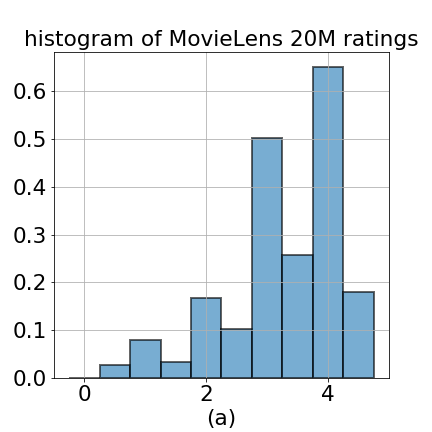
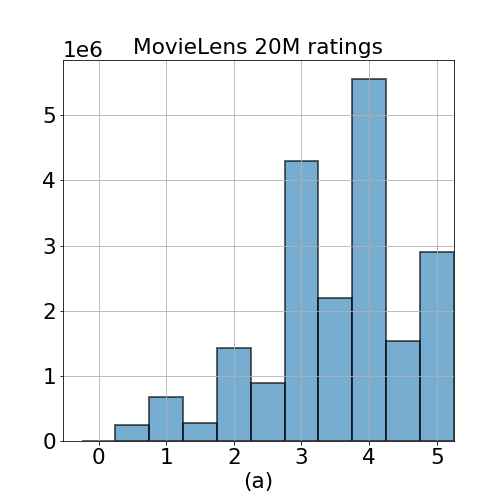
end of day

diff --git a/content/posts/Collaborative-Filtering-tensorflow.md b/content/posts/Collaborative-Filtering-tensorflow.md
@@ -1,7 +1,7 @@
 ---
 date: 2017-11-18T15:49:35-08:00
 draft: false
-title: "Collaborative Filtering with tensorflow"
+title: "A Collaborative Filtering Model on tensorflow with Nonlinear Cross Features"
 markup: "markdown"
 author: "Safak Ozkan"
 ---
@@ -16,7 +16,7 @@ We are given a rating matrix $R$ where only a small fraction of the entries $R_{
 By the nature of the problem, $R$ is a sparse matrix, where the sparsity comes not from zero entries but from empty records. Therefor, we represent the training data in 3 columns: $i$: user ID , $j$: movie ID and $R_{ij}$: the rating (see Table 1).    
    
 
-<font size="+1"><strong><p align="center">Table 1. Ratings data in sparse format</p></strong></font>
+<font size="+1"><strong><p align="center">Table 1. Ratings data ml-20m sparse format</p></strong></font>
 
 
 | $i$: user ID | $j$: movie ID   | $R_{ij}$: the rating |
@@ -44,8 +44,8 @@ The Collaborative Filtering Model can also be described as reconstructing a **lo
 
 **Eckart-Young Theorem** states that if $R_k$ is the best rank-$k$ approximation of $R$, then it's necessary that:  
  
-&nbsp;&nbsp;&nbsp;&nbsp;&nbsp;&nbsp;&nbsp;&nbsp;&nbsp;&nbsp;   1. $R_k$ minimizes the Frobenius norm $||R-R_k||_F^2$, and   
-&nbsp;&nbsp;&nbsp;&nbsp;&nbsp;&nbsp;&nbsp;&nbsp;&nbsp;&nbsp;   2. $R_k$ can be constructed by retaining only the largest $k$ singular values in the SVD formulation $R_k=U \cdot \Sigma\_k \cdot V^T$.
+&emsp;&emsp;&emsp;   1. $R_k$ minimizes the Frobenius norm $||R-R_k||_F^2$ and   
+&emsp;&emsp;&emsp;   2. $R_k$ can be constructed by retaining only the largest $k$ singular values in $\Sigma\_k$ of the SVD formulation.
 
 We can further absorb the diagonal matrix $\Sigma\_k$ into $U$ and $V$ and express the factorization as a simple dot product between the feature matrices for users and movies.
  
@@ -63,7 +63,7 @@ $V$: movies feature matrix
 
 Hence, we formulate the problem as an **optimization problem** and search for $U$ and $V$ by minimizing the following loss function $L$.    
 
-<p align="center">$argmin_{\ U,V}\ L = ||R - U \cdot V^T||_F^2$.</p>
+$$argmin_{\ U,V}\ L = ||R - U \cdot V^T||_F^2$$
 
 > *An important point to make is that the Frobenius norm is computed only as a partial summation over the entries in $R$ where a rating is provided.*
 
@@ -108,16 +108,15 @@ The hyperparameter $k$ is to be chosen carefully by cross-validation. A small $k
 	<div style="clear:both"></div>
 </div>
 <br>
-<font size="+1"><b><p align="center">Figure 2. Histogram of (*a*) all ratings (*b*) user mean ratings \(*c*) movie mean ratings, and (*d*) 
+<font size="+1"><b><p align="center">Figure 2. Histogram of (*a*) all ratings in ml-20m data (*b*) mean of ratings per user \(*c*) mean of ratings per movie, and (*d*) 
 	number of ratings provided by users. Minimum number of ratings provided by a user is 20, and maximum is 9254 ratings.
-</p></b></font>  
+</p></b></font>
 
 
 ---   
 
 ## 4. Challenges in Developing the Model on `tensorflow`
-- A particular challenge in implementing a Matrix Factorization algorithm on `tensorflow` is that we can't naively pass `None` for the `shape` argument while declaring the input data tensors `R` and `R_indices` as in `R = tf.placeholder(..., shape=(None))`. Since every rating `R[i,j]` is a function of only $2*k$ tunable variables. The `shape` parameter corresponds to how many ratings will make up a single batch in the SGD routine. To make the SGD work, I had to fix the `shape` of the `tf.placeholder` `R` and `R_indices`  to `shape=(BATCH_SIZE, k)` instead of `shape=(None, k)`. This a small price to pay that allows me to use GPU computation and also backprop with symbolic differentiation, which gave me the flexibility to experiment in trying additional non-linear terms in the loss function without having the worry about the partial differentials with respect to the tunable variables.  
-
+- A particular challenge in implementing a Matrix Factorization algorithm on `tensorflow` is that we can't naively pass `None` for the `shape` argument while declaring the input data tensors `R` and `R_indices` as in `R = tf.placeholder(..., shape=(None))`.  The `shape` parameter corresponds to the number of ratings a single batch in the SGD step contains. To make the SGD work, I had to fix the `shape` of the `tf.placeholder` variables `R` and `R_indices`  to `shape=(BATCH_SIZE, k)` instead of `shape=(None, k)`.  This is a small price to pay that allows me to use `tensorflow` which provides me GPU computation and also backprop with symbolic differentiation. This gave me the flexibility to experiment with additional nonlinear terms in loss function without having the worry about the partial differentials with respect to the tunable variables. 
 ```python
 R = tf.placeholder(dtype=tf.float32, shape=(BATCH_SIZE,))
 R_indices = tf.placeholder(dtype=tf.int32, shape=(BATCH_SIZE,2))
@@ -125,9 +124,8 @@ u_mean = tf.placeholder(dtype=tf.float32, shape=(BATCH_SIZE,1))
 v_mean = tf.placeholder(dtype=tf.float32, shape=(BATCH_SIZE,1)) 
 ```
 
-- At each iteration of the SGD algorithm a mini-batch of rating data $R\_{ij}$ and the corresponding user and movie index pair $(i,j)$, will be fed into the computational graph. Since each $R\_{ij}$ is represented as the dot product $u\_i \cdot v\_j^T$ by our model, this will require us to create a stack of the corresponding embedding vectors, a `U_stack` and a `V_stack` where `U_stack.getshape() == (BATCH_SIZE,k)` and `V_stack.getshape() == (BATCH_SIZE,k)`.
-
-The implementation on `tensorflow` is a little trickier than in `numpy`, and it's implemented in the following `get_stacked_UV` module:
+- At each SGD step a mini-batch of rating data $R_{ij}$ and the corresponding user-movie index pairs $(i,j)$ are fed into the computational graph. Since each $R\_{ij}$ is represented as the dot product $u_i \cdot v_j^T$, we have to stack the corresponding embedding vectors into 2-D tensors `U_stack` and `V_stack` where both `U_stack.getshape()` and `V_stack.getshape()` equal to `(BATCH_SIZE,k)`.   
+The implementation of stacking tensors `tensorflow` is a little trickier than in `numpy`, and it's implemented in the following `get_stacked_UV` module:  
 ```python
 def get_stacked_UV(R_indices, R, U, V, k, BATCH_SIZE):
     u_idx = R_indices[:,0]
@@ -148,48 +146,35 @@ def get_stacked_UV(R_indices, R, U, V, k, BATCH_SIZE):
 
 ---
 
-## 7. Linear vs Non-linear features
-- `R_pred = tf.sigmoid(R_pred) * 5` dropped the `MAE_test` approximately from `.64` to `.62`. Firstly, I can't explain why sigmoid works better--although only by a tiny bit.
-- However, adding squared dot product term along with the linear dot product, didn't produce any tangible improvement. 
+## 5. Linear and Nonlinear Features
+- `R_pred = tf.sigmoid(R_pred) * 5` dropped the `MAE_test` approximately from `.64` to `.62`. The reason for it is that the error rate, in the absence of sigmoid activation, some predictions can get bigger than 5 and some smaller than 0. Sigmoid activation brings the predictions closer to their actual values. 
 
+- However, adding squared dot product term along with the linear dot product, didn't produce any tangible improvement and was discarded from the final model.   
 ```python 
-u_cdot_v_square = tf.square(tf.multiply(sliced_U, sliced_V)) 
+u_cdot_v_square = tf.square(tf.multiply(U_stack_, V_stack)) 
 nl = tf.reduce_sum(u_cdot_v_square, axis=1)
 R_pred = R_pred + alpha*nl
 R_pred = tf.sigmoid(R_pred) * 5
 ```
 
-## 8. Linear Features:
-Matrix factorization is based on a low-rank singular value decomposition (SVD).  
+## 6. Cross Features:
+- In the linear collaborative filtering model, $$R\_{ij} = U\_{i} \cdot V\_{j}^T$$ $p^{th}$ feature of $U\_{i}$ is multiplied with the corresponding $p^{th}$ feature of $V\_{j}$.  
+$$=> Linear\ Model: MAE (CV) = 0.6237$$
 
-$$R=U \cdot V^{T}$$
-
-An individual rating of user $i$ on movie $j$ is given by   
-
-$$r\_{ij} = u\_{i} \cdot v\_{j}^T$$
-
-Here, each user feature vector $u\_i$ and movie feature vector $v\_j$ is of length $k$. and the classical matrix factorization multiplies $p^{th}$ feature of $u\_{i}$ with  $p^{th}$ feature of $v\_{j}$. Here, one can assume the feature $p$ corresponds to how much of a specific genre is present in movie $j$ and how much a user $i$ likes that specific genre. When the rating $y\_{ij}$ is modeled by a dot product between $u\_i$ and $v\_j$.   
-
-&emsp;&emsp;&emsp;&emsp;&emsp;**=> Linear Model: MAE (CV) = 0.6237**
-
-## 9. Nonlinear Cross-Features:
-The rating prediction with cross-features 
-
+- The rating prediction with cross-features:
 $$r\_{ij} = u\_{i} \cdot v\_{j}^{T} + \sum\_{p=0}^{k}\sum\_{q=0}^{k} w\_{pq} (u\_{ip} \cdot v\_{jq}^{T})$$
 
-Here, we're multiplying $p^{th}$ feature of user $i$ with $q^{th}$ feature of movie $j$. This allows the model to learn cross interactions as, say, if a user likes the actor Tom Cruise (the $p^{th}$ feature--high  value for $u\_{ip}$), and she doesn't like dark and suspenseful thrillers ($q^{th}$ feature--low value for $u\_{iq}$), however, she likes the movie Eyes Wide Shut (even though it has a high value for $v\_{jq}$), because an underlying reason that makes her not like dark suspenseful movies perhaps disappears if Tom Cruise is in the movie. For a model to capture such a pattern, it has to allow some sort of **nonlinear interactions** between feature $p$ and feature $q$.  
-
-&emsp;&emsp;&emsp;&emsp;&emsp;**=> Non-linear Model: MAE (CV) = 0.6150**
-
+- Here, $p^{th}$ feature of user $i$ is getting multiplied with $q^{th}$ feature of movie $j$. This allows the model to learn cross interactions as, for instance, if a user likes the actor Tom Cruise (the $p^{th}$ feature--high  value for $u\_{ip}$), and she doesn't like dark and suspenseful thrillers ($q^{th}$ feature--low value for $u\_{iq}$), however, she likes the movie Eyes Wide Shut (even though it has a high value for $v\_{jq}$), because an underlying reason that makes her not like dark suspenseful movies perhaps disappears if Tom Cruise is in the movie. For a model to capture such a pattern, it has to allow some sort of **nonlinear cross interactions** between features $p$ and $q$.  
+$$=> Nonlinear\ Model: MAE (CV) = 0.6150$$
 ```
 R_pred = np.dot(U,V) + alpha1*(xft) + alpha2*(uv_sq)
 ```
 
-The runtime for one epoch went from $31$ sec for linear model to $60$ sec when considering all 3 types of nonlinear feature crossings ($u\_{ip}$ ~ $v\_{jq}$), ($u\_{ip}$ ~ $u\_{iq}$), ($v\_{jp}$ ~ $v\_{jq}$)
+- The computational price paid for a mere 1% increas in mae rate is that the runtime for one epoch went from $31$ sec for pure linear model to $60$ sec when incorporating all 3 types of nonlinear feature crossings:  
+<p align="center">($u\_{ip}$ ~ $v\_{jq}$),&nbsp; ($u\_{ip}$ ~ $u\_{iq}$),&nbsp; ($v\_{jp}$ ~ $v\_{jq}$)</p>
 
 
-
-## 10. Improvements on the Algorithm
+## 7. Improvements on the Algorithm
 1. The regularization term needs to take into account the average rating for each user $u\_i$, $\mu_{u_i}$. 
 
 
